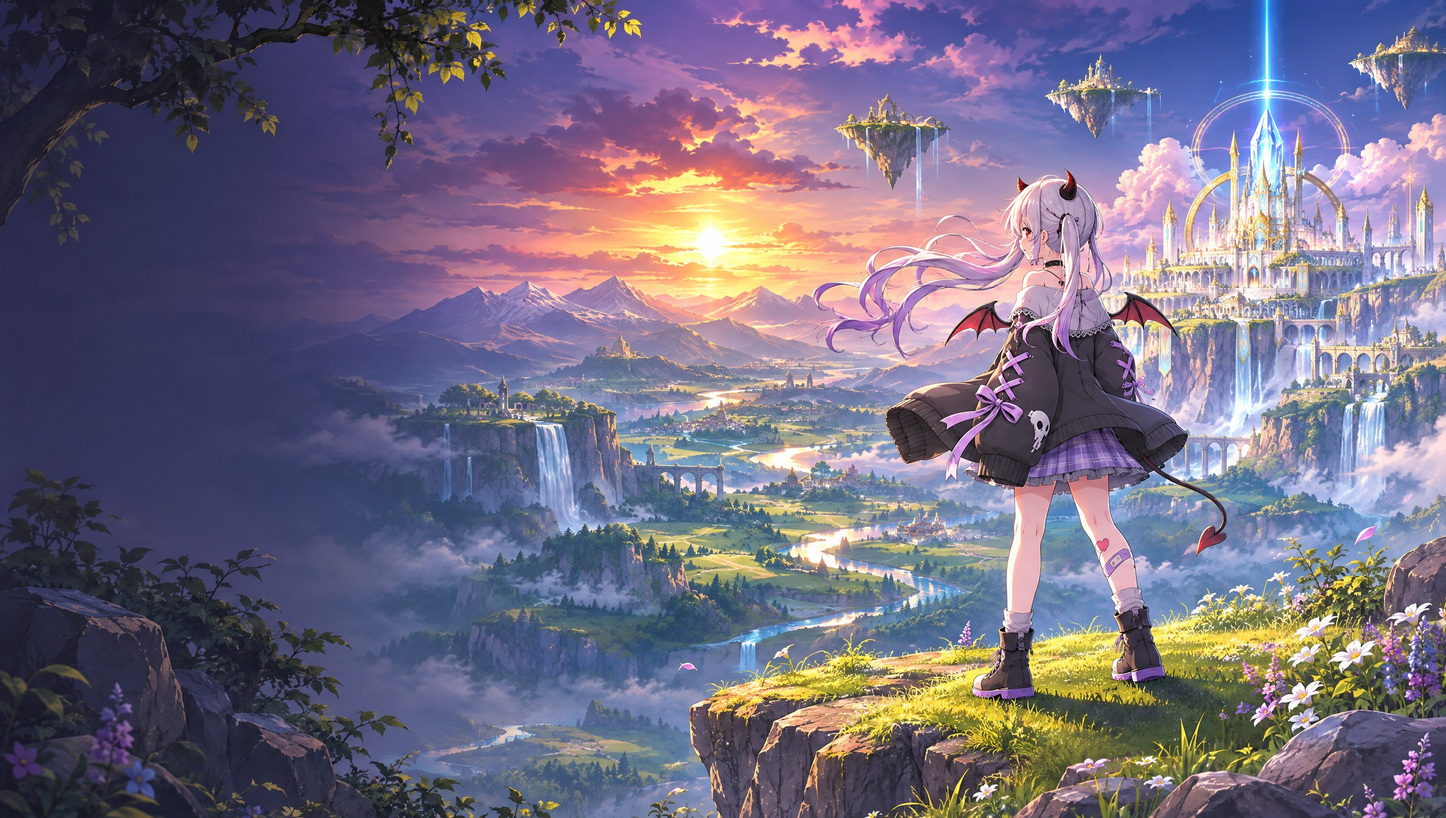
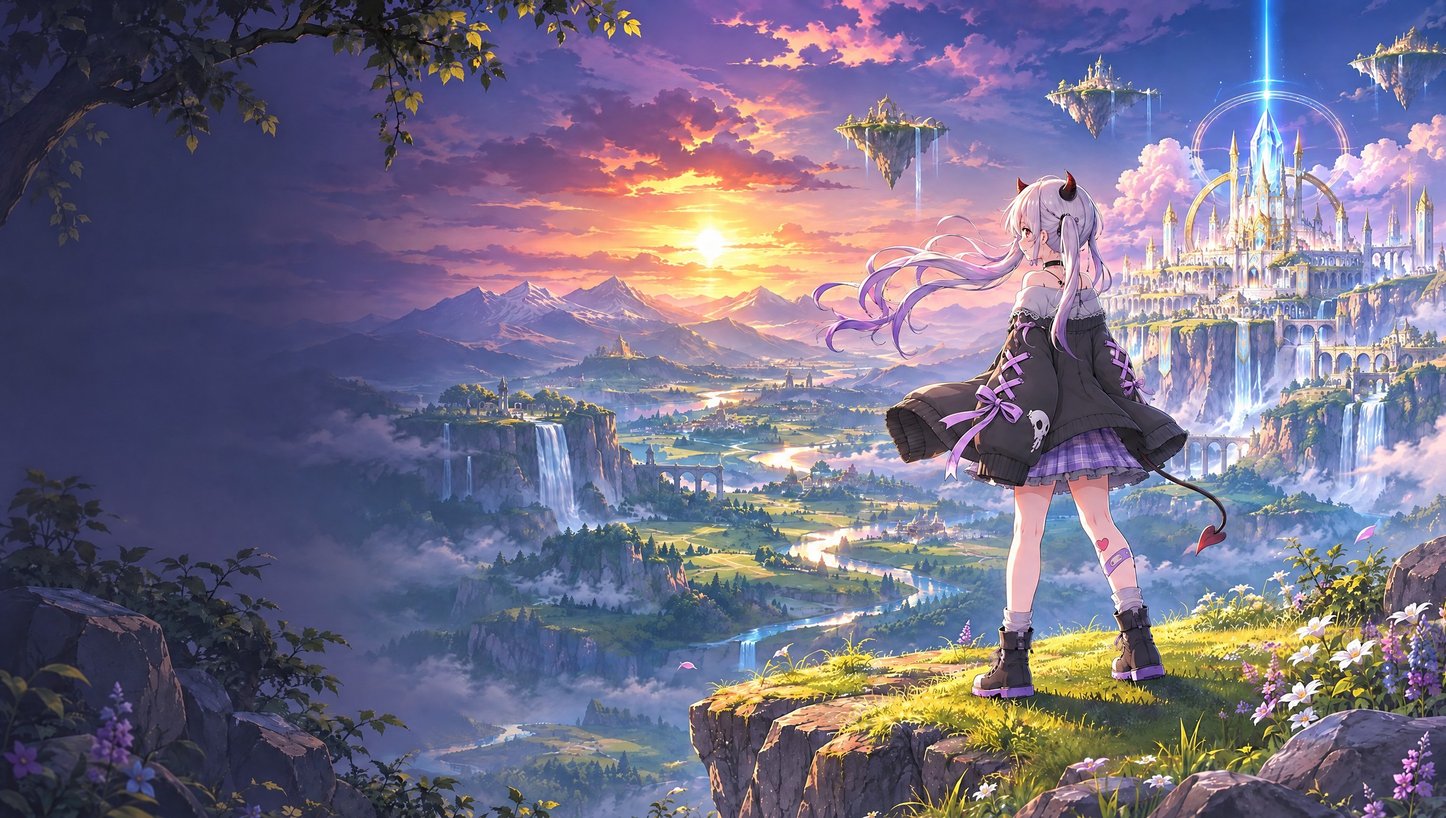
Map region names; wingless key art; progress report
The map labels each region at its heartland. The title screen's key art is
edited (Higgsfield) to match the heroine without wings. PROGRESS.md brought
up to date (S6, progression and arts, S9 screens).

Claude-Session: https://claude.ai/code/session_019FPN94Gn4yw2fww4E7obP1

diff --git a/godot/PROGRESS.md b/godot/PROGRESS.md
@@ -4,7 +4,7 @@ Branch `ccr-60ac94c6-dyqxhw`. Godot 4.4.1, GL Compatibility renderer, Android-fi
 Main scene: `scenes/main3d.tscn` (the 3D open world). The art direction is in
 **ART_BIBLE.md**; every third-party asset and its licence is in **ASSET_CATALOG.md**.
 
-Tests: **112 pass** (`godot/tests/run.sh`; it also fails on any SCRIPT ERROR).
+Tests: **117 pass** (`godot/tests/run.sh`; it also fails on any SCRIPT ERROR).
 
 ## Stages (from the overhaul brief)
 
@@ -16,17 +16,18 @@ Tests: **112 pass** (`godot/tests/run.sh`; it also fails on any SCRIPT ERROR).
 | S3 Greenwood | done | Rebuilt as an elegant fantasy town from a procedural kit (`ArchKit`): plastered houses with cut-stone bases, glazed cobalt/teal/violet roofs, arched windows that glow at night, balconies, towers, a mage tower, a gate, a star fountain with a floating crystal; old timber houses removed | Street, aerial, night and east captures; ~1,335 draw calls in town |
 | S4 Regions | done (first pass) | **The Ashlands**: four volcano cones with craters, lava pools, smoke columns and embers; lava flows down the slopes (terrain shader); the region's lakes are crusted lava with glowing seams; lava burns and throws the heroine to shore. **Every region**: its own sky and air (fog + sky tint), hued ground tint blended over ~30 m at borders, region flora (Gloomwood dense blue-green pines, Sunscar sandstone stacks, Frostpeaks pines and pale rock, Blight twisted trees and void-veined rock). Trees dither out near the camera and in front of the heroine | Captures: Ashlands wide/ground/night, lava burn, Gloomwood ground+aerial, Blight aerial, Sunscar, Frostpeaks, Greenwood regression |
 | S5 Characters & animation | done (first pass) | The heroine runs on an **AnimationTree**: a gait blend space (idle → walk → jog → sprint) placed along her speed so starts and stops blend, played at the rate that keeps planted feet still (clip ground speeds measured by `tools/measure_gait.gd`; the old code over-sped the walk 1.5×); two crossfading clip slots for every other move. **Death** (she could not die before): Death01, controls lock, screen fades, she wakes at the town gate getting up (LayToIdle) with full health and 3 s of mercy. Heavy blows knock her back (Hit_Knockback), light ones alternate head/chest reactions; long drops end in a crouching hard landing; she banks into turns at speed | Side-on walk/run/stop filmstrips (`--side`), death→respawn filmstrip (`--action=die`), `tests/test_player3d.gd` |
-| S6 Tools/weapons/items | pending | — | — |
+| S6 Tools/weapons/items | done | Fantasy pickaxe, axe, hammer, caged torch, rod, heater and round shields (CC BY, credited), re-rendered icons with tier tints; the heroine's own **Violet Moonblade** (fights and gathers: no starting axe/pickaxe); wings removed from the model and the key art | Item lineup, icon sheet, chop/mine filmstrips |
+| Progression + arts | done | `Progression`: XP from foes, trees, rock, quests; levels raise HP/stamina/damage and open the Moonblade's arts: Lv 2 Crescent Wave, Lv 3 Arcane Comet (E), Lv 5 Violet Starfall (Q); padlocks with the level on sealed buttons; violet XP line; level-up banner; saved. VFX library `Arcana` (rune circles, arcane pillar, flashes, sparks, homing orb, star lances); magic sounds from Soundza | `test_progression.gd`, comet/starfall filmstrips day and night |
 | S7 Combat polish | pending | — | — |
 | S8 Systems | pending | — | — |
-| S9 UI | pending | — | — |
+| S9 UI | done (in-game screens) | HUD: held-item slot + backpack button, sealed skills. Screens in one style (header, emblem, chips, violet panels, gold selection): Backpack (categories, rarity slots, details, Equip/Use/Discard, Sort), Crafting (new: requirements have/need, stepper, Craft, forge rule), Character (level/XP, attributes, Arts page), Pause tiles, Quests, Map (region names), Settings; centred on wide phones | `test_menus3d.gd`; captures of every screen at 1920x1080 and 2340x1080 |
 | S10-12 Lighting, sourcing, mobile | pending | — | — |
 | S13-14 Tests, QC, report | pending | — | — |
 
 ## Next exact step
 
-Stage 6: replace the old pickaxe/axe/hammer/sword meshes and crafting props with
-fantasy designs matching ART_BIBLE.md §6, re-render their icons, check them in hand.
+Stage 7 combat polish (charged heavy attack, enemy telegraphs and stagger), then
+S10-12: quality presets (FPS cap, resolution scale) and a draw-call budget pass.
 
 ## Known issues
 

diff --git a/godot/ASSET_CATALOG.md b/godot/ASSET_CATALOG.md
@@ -220,7 +220,7 @@ By Kay Lousberg (www.kaylousberg.com), CC0 1.0. Licences kept beside the files
 
 ## Key art
 
-Main-menu key art (`assets/ui/menu/keyart.jpg`) generated with Higgsfield (GPT Image 2.6) from a reference of the heroine model.
+Main-menu key art (`assets/ui/menu/keyart.jpg`) generated with Higgsfield (GPT Image 2.6) from a reference of the heroine model, then edited the same way to remove her wings.
 
 ## Fonts (OFL)
 
